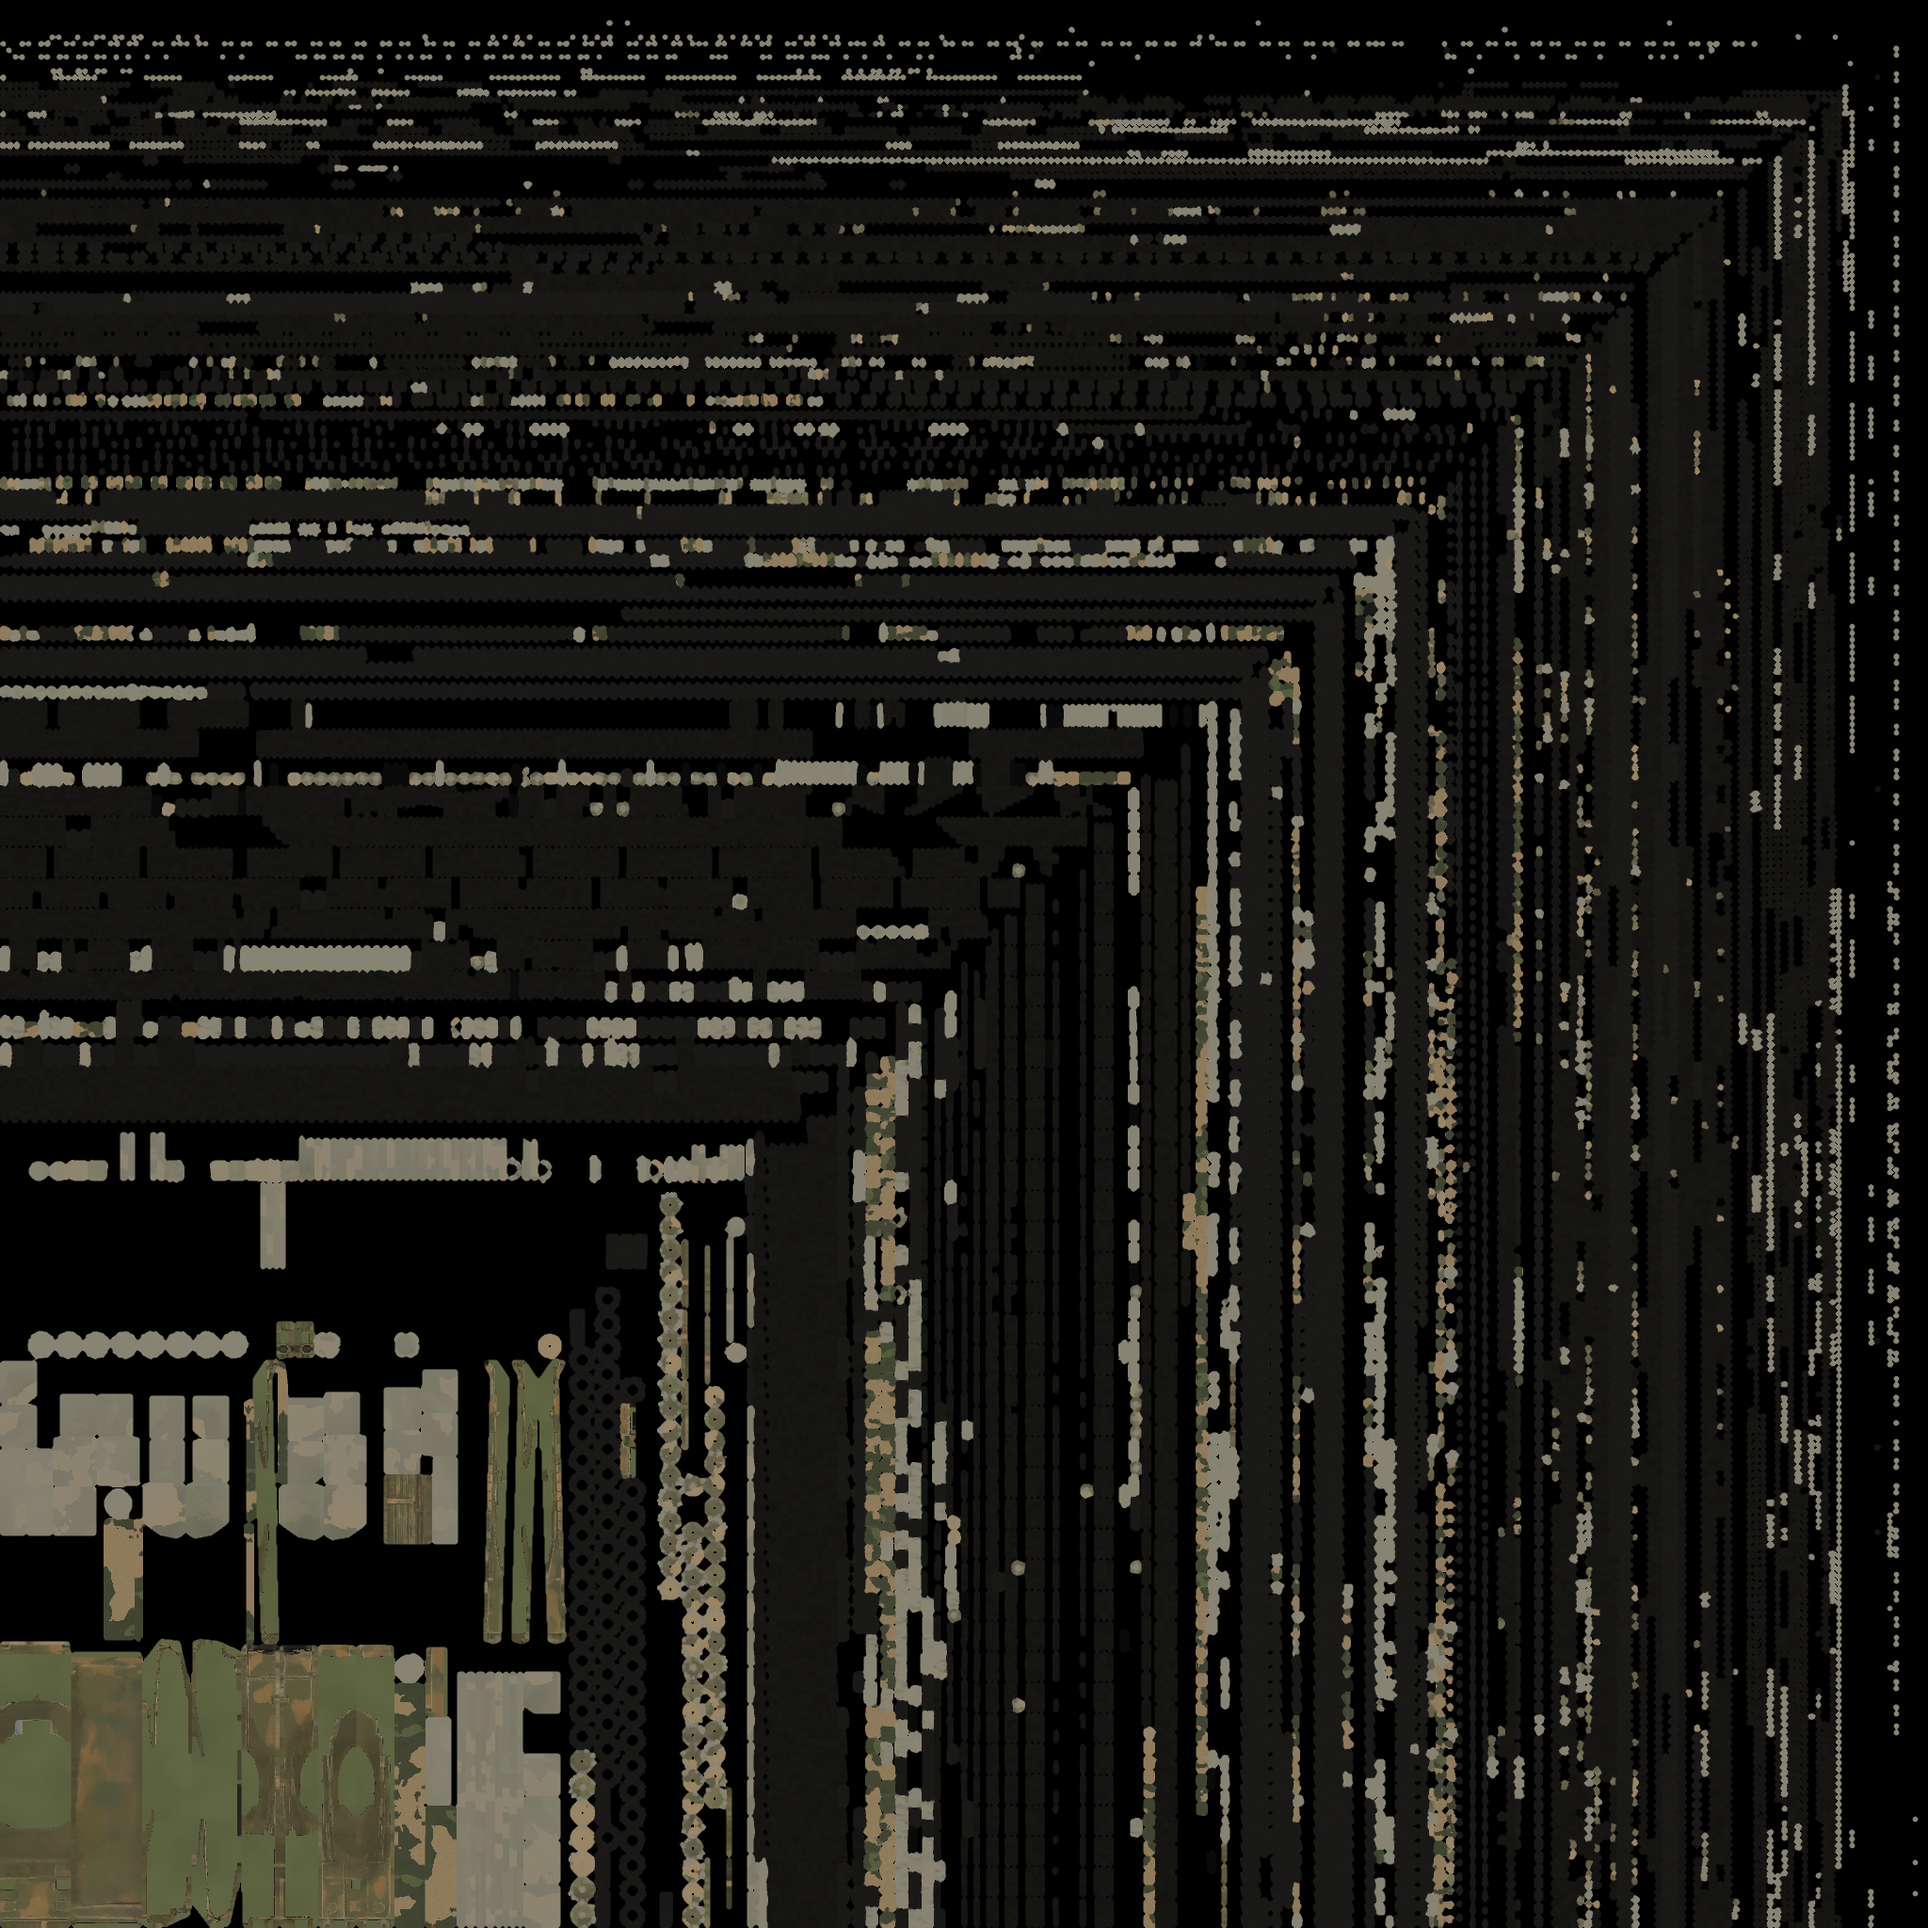
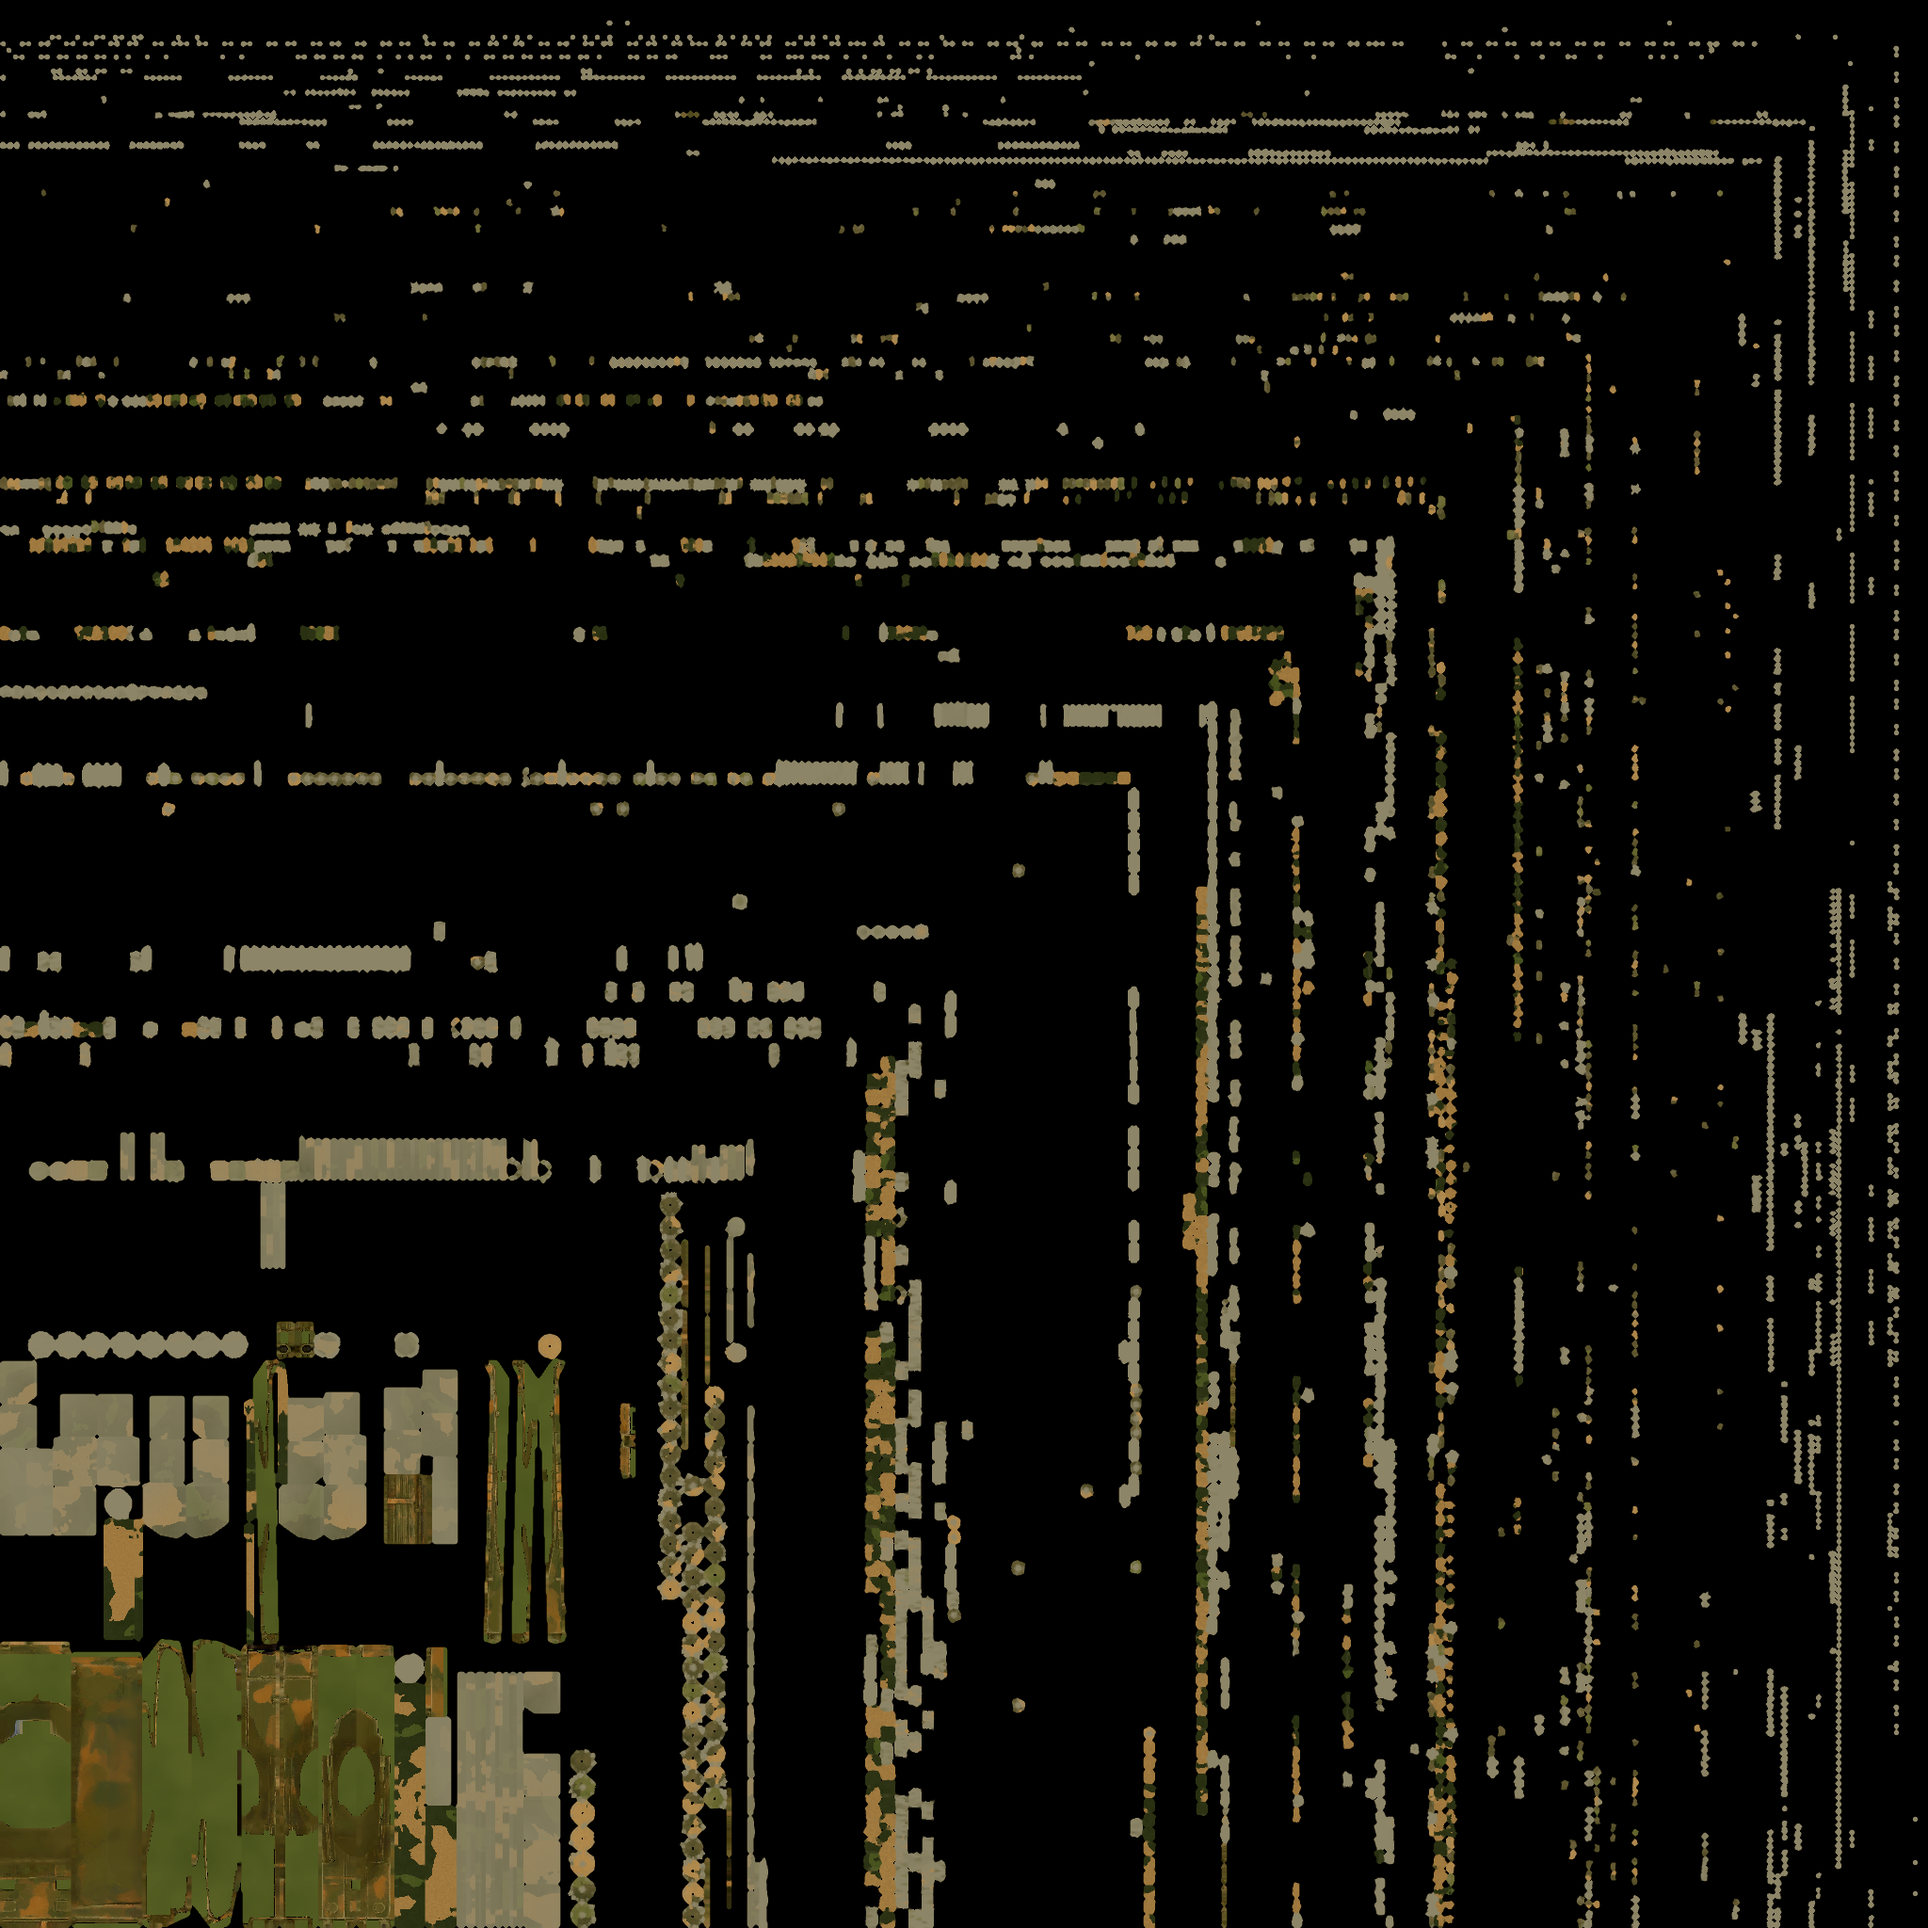
Tank 1.4.7: bolder Battle Tank paint (contrast, colour)
Claude-Session: https://claude.ai/code/session_01PqPi8VGMZAc8ooviW74CCy

diff --git a/src/Plugin.cs b/src/Plugin.cs
@@ -13,7 +13,7 @@ namespace ZedTank;
 public class TankPlugin : BasePlugin
 {
 	public const string Guid = "girthy_mods.zedzone.tank";
-	public const string Version = "1.4.6";
+	public const string Version = "1.4.7";
 
 	internal static ManualLogSource L;
 

diff --git a/CHANGELOG.md b/CHANGELOG.md
@@ -1,5 +1,9 @@
 # Changelog
 
+## 1.4.7
+
+- Battle Tank paint is bolder: more contrast and colour in the baked camo and the plain parts, and slightly darker, so the tank no longer looks faint on the map.
+
 ## 1.4.6
 
 - Battle Tank see-through fix: the 3D tank was on the map's Vehicle layer, so the main camera drew it straight onto the map (unsorted, see-through, pale) instead of the car camera filming it into the car's picture like every other car. It now goes on the car camera's own layer (VehicleModel).
